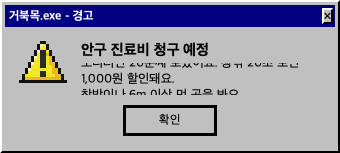
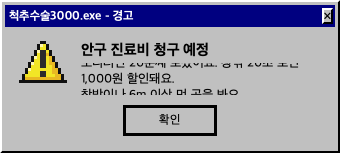
Rename app to 척추수술3000

Changed region(s): [[0.0294, 0.0523, 0.4118, 0.1569]]

diff --git a/src/posture_alert/ui/popup.py b/src/posture_alert/ui/popup.py
@@ -3,7 +3,7 @@
 - GuideCard  : 메인 에러창 (그림 + 단계 + 타이머 + "이 자세가 되었나요?")
 - GhostError : 알림을 무시할수록 뒤에 겹겹이 쌓이는 에러창
 - LightToast : 눈 휴식용 작은 경고창 (8초 뒤 자동으로 닫힘)
-- ReceiptWindow : 오늘의 거북목 견적서
+- ReceiptWindow : 오늘의 척추 견적서
 """
 from datetime import datetime
 from pathlib import Path
@@ -19,7 +19,7 @@ from .retro import (BAD_POSE, DARK, ERROR_ICON, ERROR_PAL, GOOD_POSE, NAVY,
                     POSE_PAL, WARNING, WARNING_PAL, retro_font, sprite)
 
 IMG_SIZE = 128
-EXE = "거북목.exe"
+EXE = f"{APP_NAME}.exe"
 ERROR_CODES = {
     "posture": "TURTLE_NECK_OVERFLOW",
     "stretch": "SHOULDER_LOCK_EXCEPTION",
@@ -302,11 +302,11 @@ class LightToast(_RetroWindow):
 
 
 class ReceiptWindow(_RetroWindow):
-    """오늘의 거북목 견적서."""
+    """오늘의 척추 견적서."""
     WIDTH = 30  # 영수증 한 줄 글자 수 (고정폭)
 
     def __init__(self, receipt: Receipt, now: datetime | None = None):
-        super().__init__(f"{APP_NAME}.txt - 메모장")
+        super().__init__(f"{APP_NAME} 견적서.txt - 메모장")
         self.setFixedWidth(360)
         self.title_bar.closed.connect(self.close)
         paper = QFrame()
@@ -333,7 +333,7 @@ class ReceiptWindow(_RetroWindow):
     def _render(cls, r: Receipt, now: datetime) -> str:
         w = cls.WIDTH
         days = "월화수목금토일"
-        out = [APP_NAME.center(w - 4), f"{now:%Y-%m-%d} ({days[now.weekday()]}) {now:%H:%M}".center(w),
+        out = [f"{APP_NAME} 견적서".center(w - 6), f"{now:%Y-%m-%d} ({days[now.weekday()]}) {now:%H:%M}".center(w),
                "-" * w, "[방어 내역]"]
         out += [f"{l.name} x{l.count}  {won(l.amount)}" for l in r.saved] or ["  (없음)"]
         out += ["", "[청구 내역]"]

diff --git a/src/posture_alert/engine/billing.py b/src/posture_alert/engine/billing.py
@@ -1,4 +1,4 @@
-"""거북목 견적서: 알림 응답을 '가상 병원비'로 환산한다 (재미용 가상 금액).
+"""척추 견적서: 알림 응답을 '가상 병원비'로 환산한다 (재미용 가상 금액).
 
 - 알림에 응해 자세를 맞추면 → 그 금액만큼 "방어"
 - 건너뛰거나 미루거나 그냥 닫히면 → 그 금액만큼 "청구"

diff --git a/src/posture_alert/engine/content.py b/src/posture_alert/engine/content.py
@@ -32,7 +32,7 @@ class Message:
     body: str
 
 
-APP_NAME = "거북목 견적서"
+APP_NAME = "척추수술3000"
 APP_SUBTITLE = "오늘 당신의 구부정한 목이 청구한 병원비"
 
 # 모든 문구는 존댓말. 금액은 billing.PRICE 와 맞춘다

diff --git a/PRD.md b/PRD.md
@@ -1,4 +1,4 @@
-# PRD — 거북목 견적서
+# PRD — 척추수술3000
 
 > 오늘 당신의 구부정한 목이 청구한 병원비
 > Windows 데스크톱용 자세 교정 알림 앱. 정해진 간격마다 Win95 에러창 스타일 알림을 띄우고, 그림 가이드로 "이 자세가 되었나요? 맞춰주세요"라고 안내한다.
@@ -14,10 +14,11 @@
 ### 0.1 이름
 | 항목 | 내용 |
 |---|---|
-| 앱 이름 | **거북목 견적서** |
+| 앱 이름 | **척추수술3000** |
 | 부제 | 오늘 당신의 구부정한 목이 청구한 병원비 |
-| 스토어/검색용 제목 | 거북목 견적서 - 도수치료비 방어 자세 교정 알림 |
-| 프로그램 표기 | `거북목.exe` (알림 창 제목 표시줄) |
+| 스토어/검색용 제목 | 척추수술3000 - 거북목 병원비 방어 자세 교정 알림 |
+| 프로그램 표기 | `척추수술3000.exe` (알림 창 제목 표시줄) |
+| 견적서 창 | `척추수술3000 견적서.txt - 메모장` |
 
 ### 0.2 콘셉트: "현실 자각 & 비용 직격탄" + "Win95 에러창"
 - 나쁜 자세를 **병원비 청구**로, 바른 자세를 **병원비 방어**로 바꿔 보여준다.

diff --git a/DEV_GUIDE.md b/DEV_GUIDE.md
@@ -1,4 +1,4 @@
-# 개발 가이드 — 거북목 견적서 (Windows exe)
+# 개발 가이드 — 척추수술3000 (Windows exe)
 
 > 대상: 백엔드 개발자, Mac에서 개발하고 Windows용 exe로 배포
 > 결론: **Python + PySide6 + PyInstaller**로 만듭니다.
@@ -315,7 +315,7 @@ uv run pyinstaller --name posture-alert --windowed --icon assets/icon.ico --add-
 - 에셋 경로는 실행 중에 `sys._MEIPASS`(PyInstaller 임시 경로)를 기준으로 찾아야 합니다.
 
 ### 5.2 설치 파일 — Inno Setup
-`dist/posture-alert/` 폴더를 `거북목견적서-Setup.exe` 하나로 묶습니다. 시작 메뉴 바로가기와 제거 기능도 같이 생깁니다.
+`dist/posture-alert/` 폴더를 `척추수술3000-Setup.exe` 하나로 묶습니다. 시작 메뉴 바로가기와 제거 기능도 같이 생깁니다.
 
 ### 5.3 GitHub Actions로 자동 빌드
 ```yaml

diff --git a/README.md b/README.md
@@ -1,4 +1,4 @@
-# 거북목 견적서 (posture_alert)
+# 척추수술3000 (posture_alert)
 
 > 오늘 당신의 구부정한 목이 청구한 병원비
 
